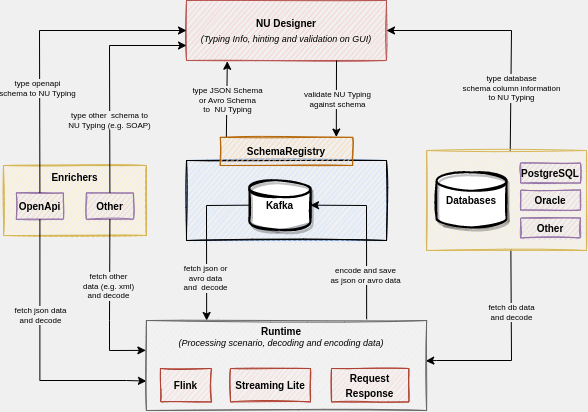
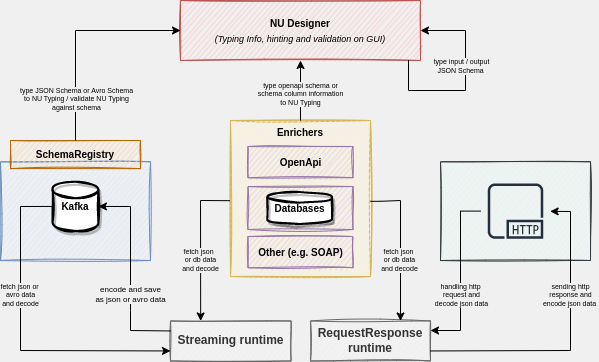
Changes part II

Changed region(s): [[0.0, 0.0, 1.0, 1.0]]

diff --git a/docs/integration/DataTypingAndSchemasHandling.md b/docs/integration/DataTypingAndSchemasHandling.md
@@ -2,18 +2,20 @@
 sidebar_position: 6
 ---
 
-# Overview
+# Data Typing and Schemas Handling
 
-![Typing architecture](./img/typing.png)
+## Overview
 
-Nussknacker as a platform integrates many of the data sources, e.g. Kafka or Databases, and also allows to enrich data
-using e.g. [OpenAPI](https://swagger.io/specification/) or Databases as well. These integrations can return several
+Nussknacker as a platform integrates many of the data sources, e.g. kafka topic or http request, and also allows to
+enrich data using e.g. [OpenAPI](https://swagger.io/specification/) or Databases. These integrations can return several
 types of data like JSON, Binary, and DB data. Each format of these data is described in another way:
 
-* Kafka with JSON data is described by JSON Schema, stored in the schema registry
-* Kafka with binary data is described by Avro Schema, stored in the schema registry
+* Source request http with JSON data is described by JSON Schema, stored in Nussknacker scenario's properties
+* Source [kafka](https://kafka.apache.org/) with JSON data is described by JSON Schema, stored in the schema registry
+* Source [kafka](https://kafka.apache.org/) with binary data is described by Avro Schema, stored in the schema registry
 * [OpenAPI](https://swagger.io/specification/) returns JSON data described by OpenAPI Schema
-* Database data are described by schema column information
+
+![Typing architecture](./img/typing.png)
 
 To provide consistent and proper support for those formats Nussknacker converts meta-information about data to its
 own `Typing Information`, which is used on the Designer's part to hint and verification the correctness of the data.
@@ -23,7 +25,7 @@ On the other hand, we also have to ensure that provided data to the sink (e.g. k
 against the schema and can be safely saved at the runtime. And this is the place where
 the [validation and encoding](#validation-and-encoding) mechanisms come in.
 
-# Validation and encoding
+## Validation and encoding
 
 As we can see above finally saving data (e.g. kafka sink) is divided into two parts:
 
@@ -35,7 +37,7 @@ and `Union` types. And this is the place where validation modes come in and help
 
 ##### type `Unknown`
 
-A situation when Nussknacker can not detect type of data, it's similar to `java.lan.Object`.
+A situation when Nussknacker can not detect type of data, it's similar to `java.lang.Object` and means Any of the type.
 
 ##### type `Union`
 
